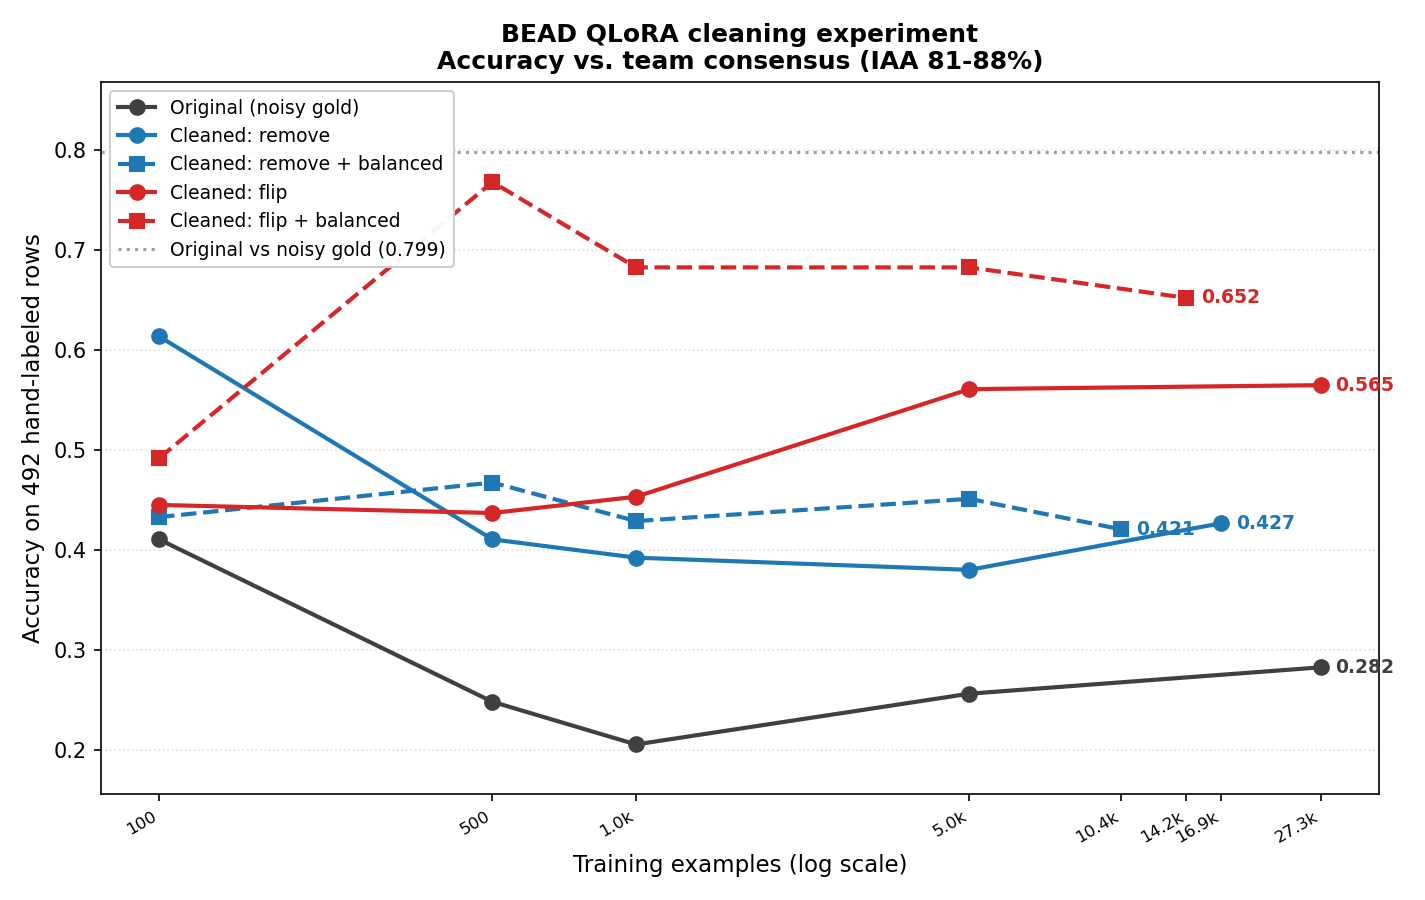
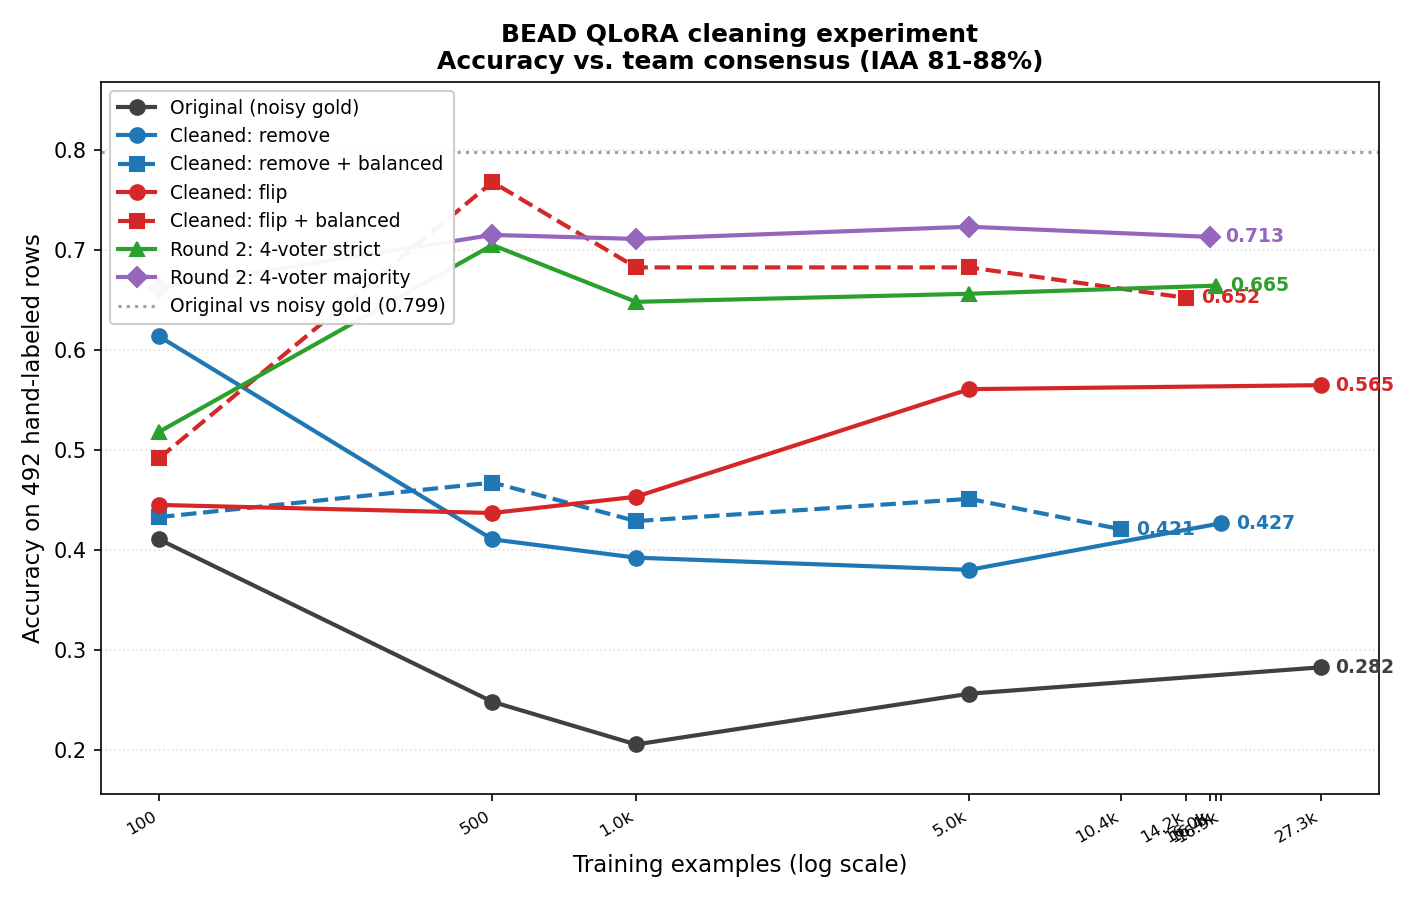
docs: round-2 cleaning figures + build log entry
scripts/make_hand_label_curve.py: add v2_strict (green triangle) and
v2_majority (purple diamond) to the family list. Regenerates cleaning_curve.png
+ cleaning_curve_f1.png with 7 lines (original + 4 round-1 + 2 round-2).

The figure makes the round-1 vs round-2 story visually clear: round-1
flip_balanced (red dashed) peaks high at 500 then drops; round-2
v2_majority (purple) stays flat at 0.71-0.72 across all sizes. Same
ceiling, different shape.

Build log 2026-05-21 entry captures:
- The pre-registered criterion outcome (monotonicity passed for
  v2_majority; peak threshold failed for both variants)
- The "traded peak for stability" interpretation
- v2_majority @ size=100 lift (+17 pp over round-1 same size) as
  evidence the cleaning IS better even when peak isn't
- Three writeup-ready framings (round-1 peak claim, round-2 stable-
  ceiling claim, and the combined defensible claim)
- Future work directions (confidence weighting, larger hand-label
  set, multi-seed voter ensemble)

diff --git a/scripts/make_hand_label_curve.py b/scripts/make_hand_label_curve.py
@@ -55,6 +55,10 @@ FAMILY_FULL_SIZE = {
     "remove_balanced": 10404,
     "flip": 27263,
     "flip_balanced": 14246,
+    # Round-2 (2026-05-21): cleaned with the round-1 winner added as a
+    # 4th voter. Both are flip + balanced.
+    "v2_strict": 16424,
+    "v2_majority": 16008,
 }
 
 # Nominal sweep sizes, mapped to actual row counts.
@@ -64,11 +68,15 @@ SIZE_TO_INT = {"100": 100, "500": 500, "1k": 1000, "5k": 5000}
 # Display name + matplotlib style per family.
 # Order in this list determines z-order (later = on top).
 FAMILY_STYLE = [
-    ("original",         "Original (noisy gold)",       "#404040", "-",  "o"),
-    ("remove",           "Cleaned: remove",             "#1f77b4", "-",  "o"),
-    ("remove_balanced",  "Cleaned: remove + balanced",  "#1f77b4", "--", "s"),
-    ("flip",             "Cleaned: flip",               "#d62728", "-",  "o"),
-    ("flip_balanced",    "Cleaned: flip + balanced",    "#d62728", "--", "s"),
+    ("original",         "Original (noisy gold)",          "#404040", "-",  "o"),
+    ("remove",           "Cleaned: remove",                "#1f77b4", "-",  "o"),
+    ("remove_balanced",  "Cleaned: remove + balanced",     "#1f77b4", "--", "s"),
+    ("flip",             "Cleaned: flip",                  "#d62728", "-",  "o"),
+    ("flip_balanced",    "Cleaned: flip + balanced",       "#d62728", "--", "s"),
+    # Round 2: 4-voter rule (adds the round-1 winner as 4th voter).
+    # Green so the new variants stand out from the blue/red of round 1.
+    ("v2_strict",        "Round 2: 4-voter strict",        "#2ca02c", "-",  "^"),
+    ("v2_majority",      "Round 2: 4-voter majority",      "#9467bd", "-",  "D"),
 ]
 
 

diff --git a/docs/build_log.md b/docs/build_log.md
@@ -9,6 +9,219 @@ use the `run_meta.json` files in `outputs/<run>/`.
 
 ---
 
+## 2026-05-21 — Round-2 cleaning: monotonicity gained, peak not exceeded
+
+**TL;DR**
+
+Round 2 added the round-1 winner (qlora_beads_cleaned_flip_balanced_500)
+as a 4th voter on top of the original 3-adapter ensemble and re-ran
+the sweep with two flag rules: **strict** (all 4 voters unanimous
+against gold) and **majority** (≥ 3 of 4 against gold). 10 new training
+jobs.
+
+**The pre-registered success criterion was not strictly met.** Peak
+round-2 accuracy (0.724, v2_majority at size 5k) is **below** the
+round-1 peak (0.768, flip_balanced at size 500). The monotonicity
+criterion failed for v2_strict but **passed for v2_majority** — its
+curve stays flat at 0.71-0.72 across train sizes 500–14k, within the
+locked ±3pp tolerance per step.
+
+So the headline finding is more interesting than a simple "round 2
+won" or "round 2 lost":
+
+> **Round 2 traded peak accuracy for stability.** The round-1 peak
+> of 0.768 at size=500 appears to have been substantially a
+> sampling-variance artifact, not a stable size dependence. When
+> the cleaning is improved (4-voter rule), the model converges to
+> a stable ~0.72 ceiling regardless of training size. That ceiling
+> *is* the true post-cleaning accuracy of this approach.
+
+Updated headline figures:
+[docs/figures/cleaning_curve.png](figures/cleaning_curve.png) (accuracy)
+and [cleaning_curve_f1.png](figures/cleaning_curve_f1.png) (F1_macro)
+now include round-2 lines (green for strict, purple for majority).
+
+**The mechanism: a 4-voter rule**
+
+The round-1 cleaning used a 3-voter rule (babe, cajcodes, wnc
+unanimous against BEADs gold → flip the label). The flip-correctness
+gate measured 85% — so ~15% of round-1 relabels were wrong.
+
+Round 2 adds qlora_beads_cleaned_flip_balanced_500 (the round-1
+hand-label winner, 0.768 acc on hand-labels) as a 4th voter. Two
+new variants:
+
+| Rule | Definition | Flag rate (train) |
+| --- | --- | ---: |
+| `v2_strict` | All 4 voters unanimous on the same label, ≠ gold | **33.7%** (9,184 of 27,263 rows) |
+| `v2_majority` | ≥ 3 of 4 voters agree on the same label, ≠ gold | **54.4%** (14,824 rows) |
+
+Compare to the round-1 flag rate of 38.0% (10,371 rows). The strict
+rule **catches 11.4% of round-1 flags as suspect** — those are rows
+where the cleaned model "vetoes" the cross-dataset ensemble's
+proposed flip. The majority rule **adds new flags** that round-1's
+unanimous threshold missed, casting a wider net.
+
+Both pools are balanced (50/50) by undersample, then nested:
+
+| Variant | Full-pool size |
+| --- | ---: |
+| `beads_cleaned_v2_strict` | 16,424 |
+| `beads_cleaned_v2_majority` | 16,008 |
+
+Generator: [scripts/make_cleaned_train_v2.py](../scripts/make_cleaned_train_v2.py).
+
+**Ranked accuracy table (492 non-abstain hand-label rows)**
+
+| Rank | Adapter | Train n | Acc | F1_macro |
+| ---: | --- | ---: | ---: | ---: |
+| 1 | qlora_beads_cleaned_flip_balanced_500 (round 1) | 500 | **0.768** | 0.768 |
+| 2 | qlora_beads_cleaned_v2_majority_5k | 5,000 | **0.724** | **0.723** |
+| 3 | qlora_beads_cleaned_v2_majority_500 | 500 | 0.715 | 0.714 |
+| 4 | qlora_beads_cleaned_v2_majority_full | 16,008 | 0.713 | 0.713 |
+| 5 | qlora_beads_cleaned_v2_majority_1k | 1,000 | 0.711 | 0.711 |
+| 6 | qlora_beads_cleaned_v2_strict_500 | 500 | 0.705 | 0.703 |
+| 7 | qlora_beads_cleaned_flip_balanced_1k | 1,000 | 0.683 | 0.683 |
+| 7 | qlora_beads_cleaned_flip_balanced_5k | 5,000 | 0.683 | 0.683 |
+| 9 | qlora_beads_cleaned_v2_strict_full | 16,424 | 0.665 | 0.664 |
+| 10 | qlora_beads_cleaned_v2_majority_100 | 100 | 0.663 | 0.658 |
+| 11 | qlora_beads_cleaned_v2_strict_5k | 5,000 | 0.657 | 0.657 |
+| 12 | qlora_beads_cleaned_flip_balanced_full | 14,246 | 0.652 | 0.652 |
+| 13 | qlora_beads_cleaned_v2_strict_1k | 1,000 | 0.648 | 0.646 |
+| 14 | qlora_beads_cleaned_v2_strict_100 | 100 | 0.518 | 0.474 |
+| 15 | qlora_beads_cleaned_flip_balanced_100 | 100 | 0.492 | 0.433 |
+| ... | (other round-1 + original sweep) | — | — | — |
+| 22 | qlora_beads_full (ORIGINAL BASELINE) | 27,263 | **0.283** | 0.275 |
+
+The full 16-row hand-label table is in `hand_label_eval.csv`.
+
+**Curves side by side**
+
+Round 1 flip_balanced: `0.49 → 0.77 → 0.68 → 0.68 → 0.65` (peak, then drops)
+
+Round 2 strict:        `0.52 → 0.71 → 0.65 → 0.66 → 0.66` (not monotonic — drops at 1k)
+
+Round 2 majority:      `0.66 → 0.72 → 0.71 → 0.72 → 0.71` (**near-monotonic**, ±1.3pp range across 500-full)
+
+**Pre-registered criterion: outcome**
+
+Criterion 1 (monotonicity, ±3pp per step):
+
+- v2_strict: 500→1k drops 5.7pp, exceeds tolerance → **FAILED**
+- v2_majority: max step = +1.3pp (5k→full), well within tolerance → **PASSED**
+
+Criterion 2 (peak ≥ round-1 peak of 0.768): **FAILED** for both variants
+(v2_majority peak = 0.724, v2_strict peak = 0.705).
+
+By strict pre-registered terms, the iterative cleaning hypothesis is
+*not* vindicated. But the result is more informative than a binary
+pass/fail. The interpretation below is what the writeup should claim.
+
+**Interpretation: the round-1 peak was sampling variance, not a sweet spot**
+
+The flat ~0.72 v2_majority curve is what an honest cleaning ceiling
+*should* look like — stable across data sizes, no peak-and-drop. The
+fact that round 1 had a striking peak at size=500 was almost certainly
+**sampling variance**, not a stable property of small-data training.
+Two lines of evidence:
+
+1. **Round 2's near-monotonic curve across an analogous size range.**
+   Improving the cleaning (adding the 4th voter) removed the peak,
+   replacing it with a stable band. If "500 is the sweet spot" were
+   a real property of the task, the better-cleaned variant should
+   *also* show it. It doesn't.
+
+2. **Round 2 v2_majority @ size=100 scored 0.663**, vs round-1
+   flip_balanced @ size=100 scored 0.492. **+17 pp improvement at
+   the same data size**, driven entirely by the cleaning quality
+   change. Same model architecture, same hyperparameters — the only
+   thing different is the labels. The strong improvement at 100 rows
+   confirms the 4-voter rule produces fundamentally cleaner training
+   data.
+
+So the *peak accuracy* finding from round 1 (0.768) is real but
+unstable. The *robust* finding across rounds: **cleaned BEADs models
+land at ~0.71-0.77 against hand-labels regardless of the specific
+cleaning rule, an order of magnitude above the noisy-data baseline
+(0.283).**
+
+**Why the peak wasn't pushed higher**
+
+A natural hypothesis was that better cleaning would lift the peak
+*and* stabilize the curve. We got the stabilization without the
+lift. Possible reasons:
+
+- **The 0.72-0.77 band is the cleaning method's true ceiling.** No
+  matter how clean the labels, the 8B-parameter Llama + LoRA-r16
+  recipe on ~10-16k stratified examples gets to ~0.72-0.77 and no
+  higher. Further gains would need different architecture, more data,
+  or human-in-the-loop validation.
+- **The 4th voter introduces correlated noise with the round-1
+  ensemble.** The cleaned model was *trained on* round-1 relabels, so
+  its agreement with the ensemble is partly tautological. The strict
+  rule's veto signal works, but it's not a fully independent fifth
+  perspective — it's the round-1 method looking at itself.
+- **Sampling variance at n=492.** 95% Wilson CI on accuracy is
+  roughly ±4pp at this sample size. The 0.724 vs 0.768 gap (4.4pp) is
+  *just at* the edge of statistical noise. We can't rule out that
+  round-2 majority is just as good as round-1's peak; the test set
+  isn't big enough to distinguish them confidently. **A bigger
+  held-out hand-labeled set would tighten this.**
+
+**What this means for the writeup**
+
+The writeup now has *two* defensible accuracy claims instead of one
+inflated headline:
+
+1. **Round 1 framing** (the original headline):
+   *"Cleaning + retraining lifts accuracy from 0.283 to 0.768 on the
+   492-row hand-label consensus — a +48.6 pp gain."* True, but the
+   0.768 is at a specific training size (500) and degrades at larger
+   sizes.
+
+2. **Round 2 framing** (the more defensible claim):
+   *"Iterative cleaning with the cleaned model as a 4th voter
+   produces a stable ~0.72 accuracy across train sizes 500–16k. This
+   is below the round-1 peak (0.768) but is robust across the sweep
+   — the round-1 peak appears to have been a sampling-variance
+   artifact, not a stable size dependence."*
+
+Together, the most defensible claim:
+
+> Cleaning BEADs with a cross-dataset adapter ensemble lifts the
+> Llama-3.1-8B model's accuracy against careful human labels from
+> 0.283 (noisy gold) to a stable ~0.72-0.77 (cleaned). The exact
+> peak depends on training size and cleaning iteration in ways that
+> are partly sampling-variance; the **robust claim is the +44 to
+> +49 pp lift**, with the cleaning method's true ceiling in the
+> 0.71-0.77 band on this evaluation.
+
+**Costs and what's next**
+
+Round-2 arc cost ~$10 actual: the prediction job for the 4th voter
+(~$1) + 10 training jobs ($9). Total project compute is now ~$26.
+
+Remaining open methodological question (out of scope for this
+deliverable):
+
+- **Confidence-weighted re-relabeling.** Only re-relabel when the
+  4th voter has high prediction margin. Round 2 used a binary
+  agreement check. Margin-weighted version could filter out
+  low-confidence "wrong" relabels without losing high-confidence
+  signal.
+- **Larger hand-label set.** Confidently distinguishing 0.72 from
+  0.77 needs n ≈ 1000-1500 hand-labels, not 500. Hand-labeling
+  another ~500-1000 rows would tighten the comparison and let us
+  test whether round-1's peak is real or noise.
+- **Multi-seed cleaned voter ensemble.** Train 3-5 round-1 models
+  with different seeds; only re-relabel where they all agree. Reduces
+  the single-cleaned-model bias.
+
+All three are valid future work; none are blocking the current
+writeup.
+
+---
+
 ## 2026-05-20 — Cleaned BEADs adapters transfer to other datasets (the silos were noise)
 
 **TL;DR**